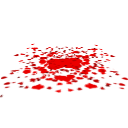
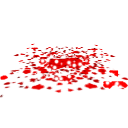
- more blood and more tweaked values

diff --git a/Game/src/GameObjects/Projectile.cpp b/Game/src/GameObjects/Projectile.cpp
@@ -322,6 +322,7 @@ bool Projectile::OnCollision(SolidMovingSprite* object)
 
 		// change our sprite to the impact sprite 
 		m_texture = m_impactTexture;
+		DoBloodProjectilePositionJitter();
 
 		// damage the other object
 		if (!WasInWaterLastFrame())
@@ -531,9 +532,17 @@ void Projectile::Update(float delta)
 		{
 			m_alpha = timeToLive / m_maxTimeInActive;
 		}
-		if (mDoScaleFadeOut)
+		if (mDoScaleFadeOut )
 		{
-			// TODO: implement this
+			float scaleOutTimePercent = 0.1f;
+			float timeToDiePercent = timeToLive / m_maxTimeInActive;
+			if (timeToDiePercent < scaleOutTimePercent)
+			{
+				float scale = 1.0f - ((scaleOutTimePercent - timeToDiePercent) / scaleOutTimePercent);
+				m_alpha = scale; // also alpha out for scaling objects, just later
+				SetMatrixScaleX(scale);
+				SetMatrixScaleY(scale);
+			}
 		}
 
 		if (currentTime > timeToDie)
@@ -685,6 +694,8 @@ void Projectile::HandleSolidLineStripCollision(SolidLineStrip * solidLineStrip)
 			{
 				// change our sprite to the impact sprite 
 				m_texture = m_impactTexture;
+
+				DoBloodProjectilePositionJitter();
 			}
 			else
 			{
@@ -695,7 +706,32 @@ void Projectile::HandleSolidLineStripCollision(SolidLineStrip * solidLineStrip)
 		{
 			// change our sprite to the impact sprite 
 			m_texture = m_impactTexture;
+
+			DoBloodProjectilePositionJitter();
 		}
+	}
+}
+
+void Projectile::DoBloodProjectilePositionJitter()
+{
+	if (mType == kBloodFXProjectile)
+	{
+		// randomly jitter the y position so that it doesn't leave a uniform pattern
+		float randY = ((rand() % 100) * 0.01f) * 20.0f;
+		int negativeSign = rand() % 2 == 1;
+
+		if (negativeSign)
+		{
+			SetY(Y() - randY);
+		}
+		else
+		{
+			SetY(Y() + randY);
+		}
+
+		// TODO: this should be set on a LAYER
+		// This should appear on the ground in MOST cases but is not ideal
+		SetZ(90.0f);
 	}
 }
 

diff --git a/Game/src/GameObjects/Player.cpp b/Game/src/GameObjects/Player.cpp
@@ -52,18 +52,32 @@ void Player::Initialise()
 	mRunAnimFramerateMultiplier = 3.0f;
 	m_maxJumpSpeed = 23;
 	mMaxJumpsAllowed = 1;
-	m_maxVelocity.X = 5.0001f;
-	mSprintVelocityX = 15.0f;
-	m_resistance.X = 0.92f; // HAS to be lower than 1.0 (TODO: really need to change this)
-	m_resistance.Y = 0.88f;
-	// <resistance z="0.000000" y="1.400000" x="0.880000" />
+	m_maxVelocity.X = 1.0000f;
+	mSprintVelocityX = 17.5f;
 
-	// TODO: just testing
+	UpdateResistance();
+
+	// TODO: just testing (or am I really, just keep crouch jump all the time?)
 	FeatureUnlockManager::GetInstance()->SetFeatureUnlocked(FeatureUnlockManager::kCrouchJump, true);
 
 	m_projectileOffset.X = 5.0f;
 	m_projectileOffset.Y = 25.0f;
 }
+
+void Player::UpdateResistance()
+{
+	if (mSprintActive)
+	{
+		m_resistance.X = 0.94f; // HAS to be lower than 1.0 (TODO: really need to change this)
+	}
+	else
+	{
+		m_resistance.X = 0.895f; // HAS to be lower than 1.0 (TODO: really need to change this)
+	}
+
+	m_resistance.Y = 0.88f;
+}
+
 void Player::XmlRead(TiXmlElement * element)
 {
 	// update the base classes
@@ -134,6 +148,8 @@ void Player::Update(float delta)
 {
 	// update base classes
 	Character::Update(delta);
+
+	UpdateResistance();
 
 	if (mBurstFireEnabled && mFireBurstNum > 0 && mCurrentBurstNum >= mFireBurstNum)
 	{

diff --git a/Game/src/GameObjects/Character.cpp b/Game/src/GameObjects/Character.cpp
@@ -1290,7 +1290,7 @@ void Character::AccelerateX(float directionX, float percent)
 
 	if (GetIsSprintActive())
 	{
-		MovingSprite::AccelerateX(directionX, (accelVal * 2) * deepWaterModifier);
+		MovingSprite::AccelerateX(directionX, (accelVal * 2.0f) * deepWaterModifier);
 	}
 	else
 	{
@@ -1911,26 +1911,25 @@ void Character::UpdateCollisionBox()
 
 void Character::FireBloodSpatter(Vector2 direction, const Vector3 & origin)
 {
-	float speed = 1.0f;
+	float speed = 3.5f;
 
 	Projectile * p = new Projectile(Projectile::kUnknownProjectile,
-											"Media\\bloodparticle.png",
+											"Media\\blood_projectile.png",
 											"Media\\blood_impact.png",
 											origin,
-											Vector2(128, 128),
+											Vector2(256, 256),
 											Vector2(64, 64),
 											direction,
 											0.0f,
 											speed,
-											1.5f);
+											3.5f);
 
 	p->SetProjectileType(Projectile::kBloodFXProjectile);
 	p->SetDoAlphaFadeOut(false);
+	p->SetDoScaleFadeOut(true);
 	p->SetSpinningMovement(false);
 	p->SetShouldRotateToDirection(false);
-
-	// TODO: this should be replaced with a layer later
-	p->SetZ(80.0f);
+	p->SetIsNativeDimensions(false);
 
 	GameObjectManager::Instance()->AddGameObject(p);
 }

diff --git a/Game/src/InputManager.cpp b/Game/src/InputManager.cpp
@@ -8,6 +8,7 @@
 #include "Timing.h"
 #include "UIManager.h"
 #include "GhostEnemySpawner.h"
+#include "NPCManager.h"
 
 const float kMaxGamepadAnalogRange = (std::numeric_limits<short>::max)();
 const float kAimOffsetX = 450.0f;
@@ -126,17 +127,22 @@ void InputManager::ProcessLeftRightMovement_gamepad(XINPUT_STATE padState, Curre
 		!player->IsWallJumping() &&
 		(range > 0.1f || range < -0.1f))
 	{
-		if (absRange < 0.35f)
+		if (absRange < 0.5f)
 		{
 			// min accel rate
-			absRange = 0.35f;
+			absRange = 0.5f;
 		}
 
 		player->AccelerateX(range, absRange);
 
 		if (absRange > 0.95f)
 		{
-			currentActions.mIsSprinting = true;
+			if (NPCManager::Instance()->IsAnyEnemyNPCInWorld())
+			{
+				// only sprint if there are enemies in the level
+				// don't want to sprint too fast if we're just exploring
+				currentActions.mIsSprinting = true;
+			}
 		}
 	}
 	else

diff --git a/Game/src/GameObjects/Debris.cpp b/Game/src/GameObjects/Debris.cpp
@@ -81,7 +81,6 @@ void Debris::Update(float delta)
 		{
 			mTimeUntilFadeOutFully -= delta;
 
-			
 			if (mTimeUntilFadeOutFully <= 0.0f)
 			{
 				mTimeUntilFadeOutFully = 0.0f;
@@ -138,6 +137,4 @@ bool Debris::OnCollision(SolidMovingSprite* object)
 void Debris::Initialise()
 {
 	SolidMovingSprite::Initialise();
-
-	mOriginalDimensions = m_dimensions;
 }

diff --git a/Game/src/GameObjects/Projectile.h b/Game/src/GameObjects/Projectile.h
@@ -87,6 +87,8 @@ protected:
 
 	void ReboundOffSolidLine(SolidLineStrip * solidLine, unsigned lineIndex);
 
+	void DoBloodProjectilePositionJitter();
+
 	static int NUM_PROJECTILES_ACTIVE; // the number of projectiles currently alive
 
 	bool m_isActive; // are we active (ie: do update and onCollision)

diff --git a/Game/src/GameObjects/GameObject.cpp b/Game/src/GameObjects/GameObject.cpp
@@ -120,6 +120,8 @@ void GameObject::Initialise()
 						mSineWaveProps.InitialYPosition,
 						mSineWaveProps.InitialXPosition, 
 						mSineWaveProps.OffsetX);
+
+	mOriginalDimensions = m_dimensions;
 }
 
 void GameObject::SetupDebugDraw()

diff --git a/Game/src/GameObjects/Debris.h b/Game/src/GameObjects/Debris.h
@@ -38,8 +38,6 @@ private:
 	DebrisState mCurrentDebrisState = kActive;
 
 	float mTimeUntilFadeOutFully = 3.0f;
-
-	Vector3 mOriginalDimensions;
 };
 
 #endif

diff --git a/Game/src/GameObjects/GameObject.h b/Game/src/GameObjects/GameObject.h
@@ -264,6 +264,8 @@ protected:
 
 	bool mAlwaysUpdate;
 
+	Vector3 mOriginalDimensions;
+
 private:
 
 	int m_id; // our game object ID (this is unique)

diff --git a/Game/src/GameObjects/Player.h b/Game/src/GameObjects/Player.h
@@ -35,6 +35,8 @@ public:
 
 	void StopFocus();
 
+	void UpdateResistance();
+
 private:
 
 	virtual void DebugDraw(ID3D10Device *  device) override;
